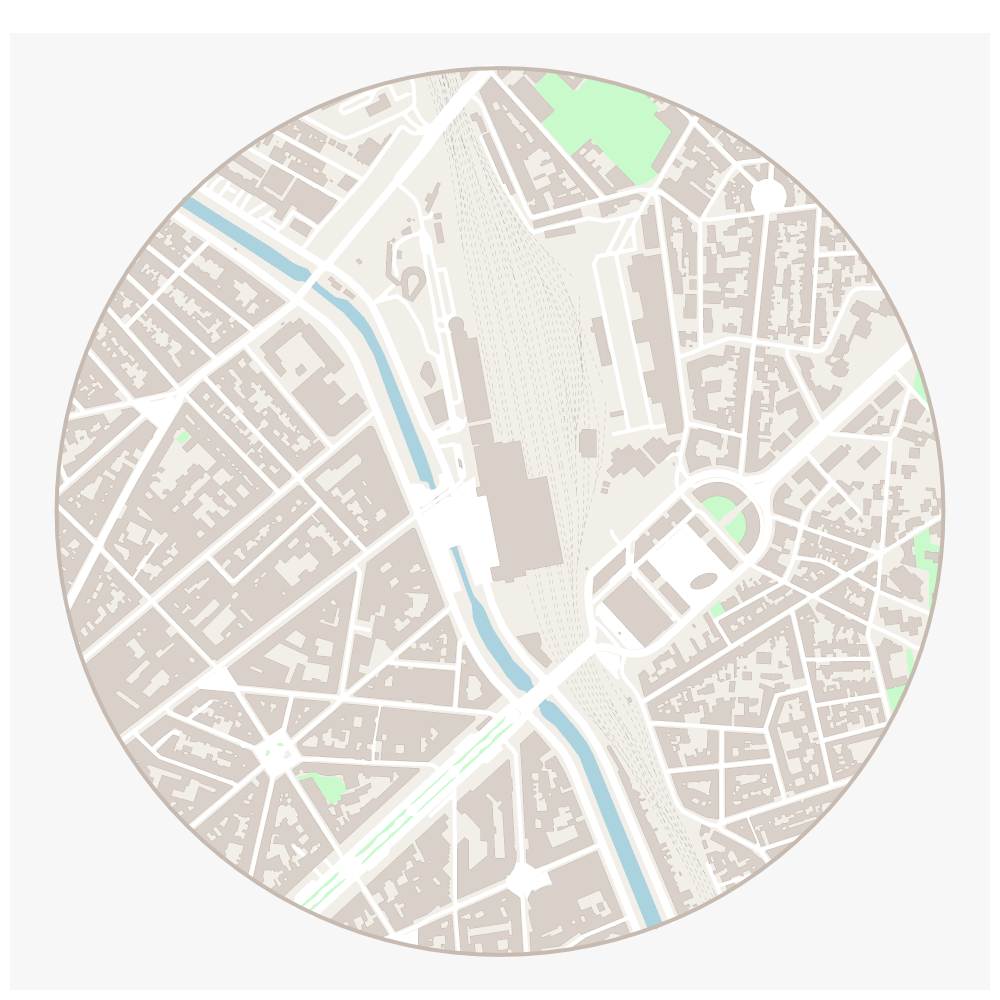
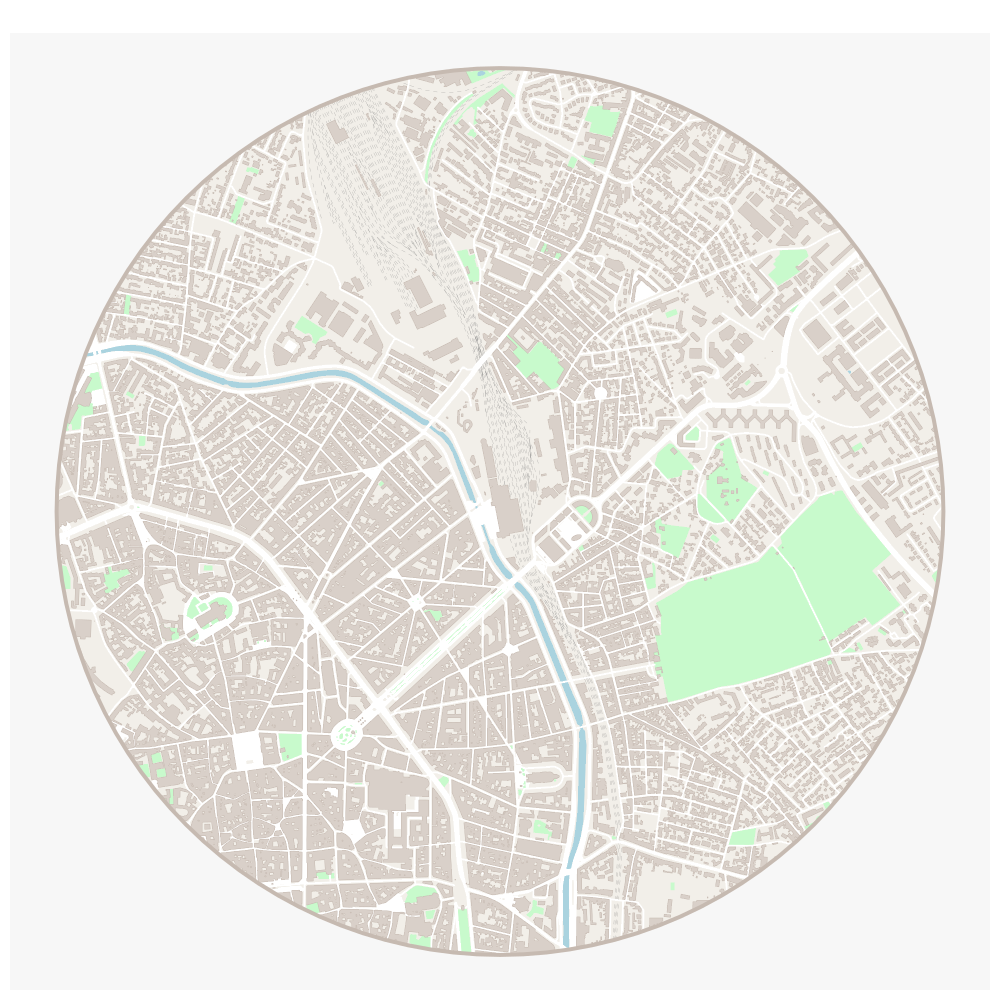
update

diff --git a/README.md b/README.md
@@ -13,13 +13,13 @@ library(maposm)
 bb1 <- osmdata::getbb("Gare Matabiau, 31000 TOULOUSE, France")
 lon <- mean(bb1[1, ])
 lat <- mean(bb1[2, ])
-res <- get_city(c(lon, lat), r = 750)
-#> Getting buildings: 4.863 sec elapsed
-#> Getting green areas: 2.968 sec elapsed
-#> Getting water bodies: 3.214 sec elapsed
-#> Getting roads: 1.148 sec elapsed
-#> Getting streets: 2.273 sec elapsed
-#> Getting railways: 1.159 sec elapsed
+res <- get_city(c(lon, lat), r = 2000)
+#> Getting buildings: 26.422 sec elapsed
+#> Getting green areas: 1.918 sec elapsed
+#> Getting water bodies: 2.608 sec elapsed
+#> Getting roads: 1.328 sec elapsed
+#> Getting streets: 4.099 sec elapsed
+#> Getting railways: 0.784 sec elapsed
 ```
 
 ``` r
@@ -34,6 +34,8 @@ mf_map(res$street, col = "white", border = "white", lwd = .5, add = TRUE)
 mf_map(res$building, col = "#d9d0c9", border = "#c6bab1", lwd = .5, add = TRUE)
 mf_map(res$circle, col = NA, border = "#c6bab1", lwd = 4, add = TRUE)
 dev.off()
+#> png 
+#>   2
 ```
 
 ![](man/figures/README-toulouse.png)
